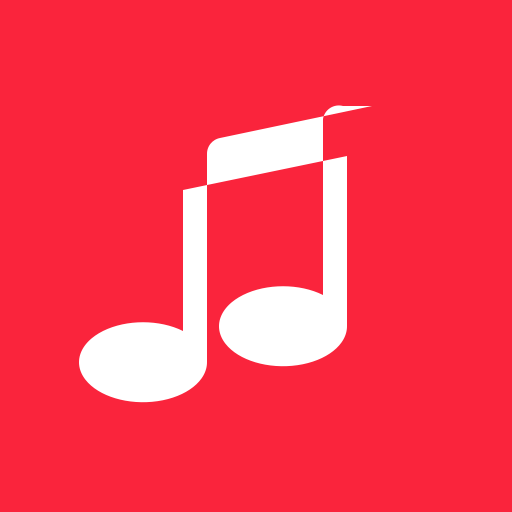
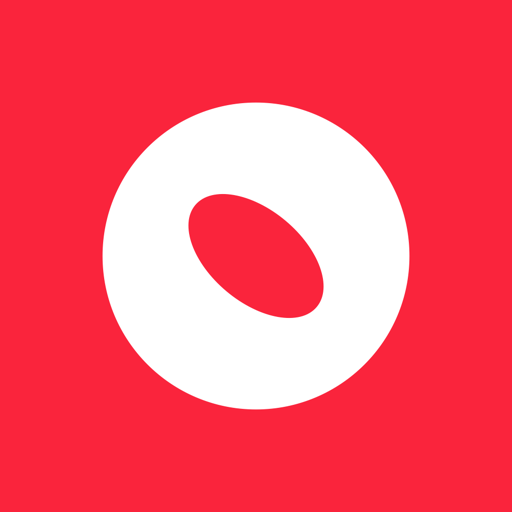
Give the app its own mark: a full moon cut like a whole note
Replaces the borrowed beamed-note icon with an original mark. Purna
means whole; Purnima is the full moon; the whole note is the one note
that stands complete on its own. One disc, one engraved counter.

- PNG icons ship full-bleed and opaque so no platform can composite
  white corners; the rounded corners live only in public/logo.svg.
- favicon.ico rebuilt at 16 and 32 px as RGBA PNGs (Next's ICO loader
  rejects RGB).
- components/Logo.tsx draws the mark in currentColor for the header.

Claude-Session: https://claude.ai/code/session_012Qwjbv29KwWPBRAqRBjHeL

Changed region(s): [[0.1562, 0.1875, 0.8125, 0.8125]]

diff --git a/components/Logo.tsx b/components/Logo.tsx
@@ -1,0 +1,27 @@
+/**
+ * The mark: one full moon (Purnima, Purna = whole) cut like an engraved
+ * whole note. Fills currentColor; the counter shows whatever sits behind it.
+ */
+export function Logo({
+  size = 20,
+  className,
+}: {
+  size?: number;
+  className?: string;
+}) {
+  return (
+    <svg
+      viewBox="17 17 66 66"
+      width={size}
+      height={size}
+      className={className}
+      aria-hidden
+    >
+      <path
+        fill="currentColor"
+        fillRule="evenodd"
+        d="M50 20a30 30 0 1 0 0 60a30 30 0 1 0 0-60zm11.87 39.96a9 15.5 -50 1 0-23.74-19.92a9 15.5 -50 1 0 23.74 19.92z"
+      />
+    </svg>
+  );
+}

diff --git a/app/page.tsx b/app/page.tsx
@@ -1,6 +1,7 @@
 "use client";
 
 import { useCallback, useEffect, useRef, useState } from "react";
+import { Logo } from "@/components/Logo";
 import {
   TbArrowsShuffle,
   TbChevronDown,
@@ -362,7 +363,7 @@ export default function Home() {
       >
         <div className="mx-auto flex max-w-6xl items-center gap-3 px-4 py-2.5">
           <h1 className="flex shrink-0 items-center gap-1.5 text-base font-semibold tracking-tight">
-            <TbMusic className="text-accent" size={19} />
+            <Logo className="text-accent" size={20} />
             <span className="hidden sm:inline">Music</span>
           </h1>
 
